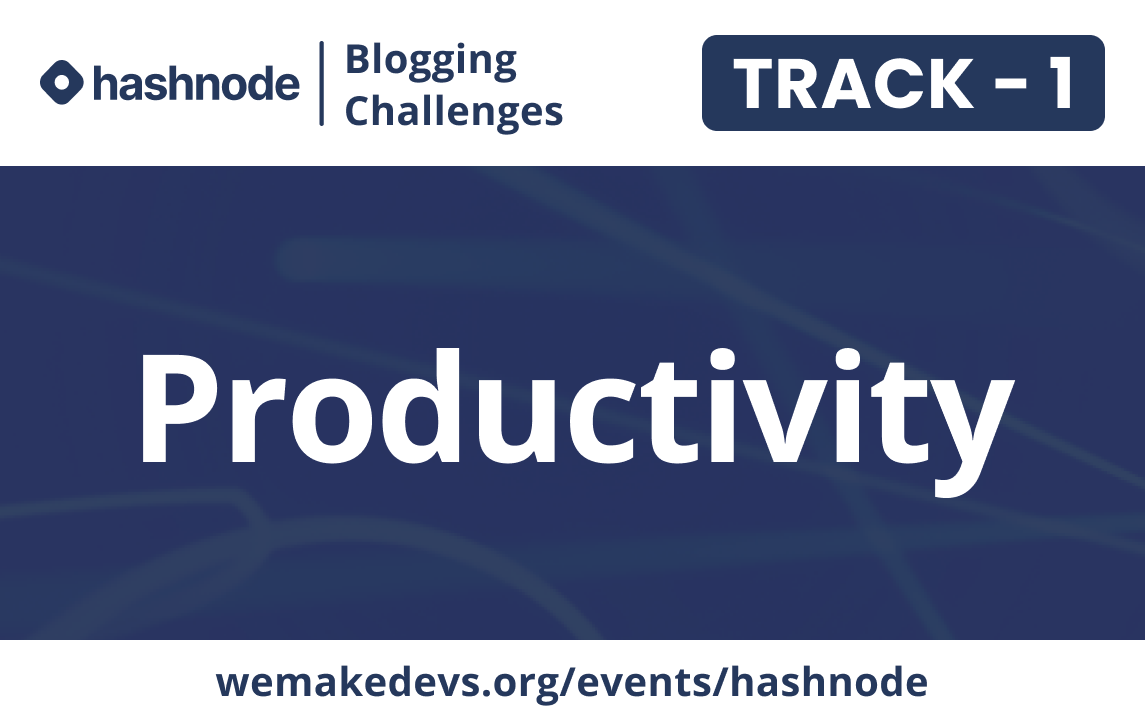
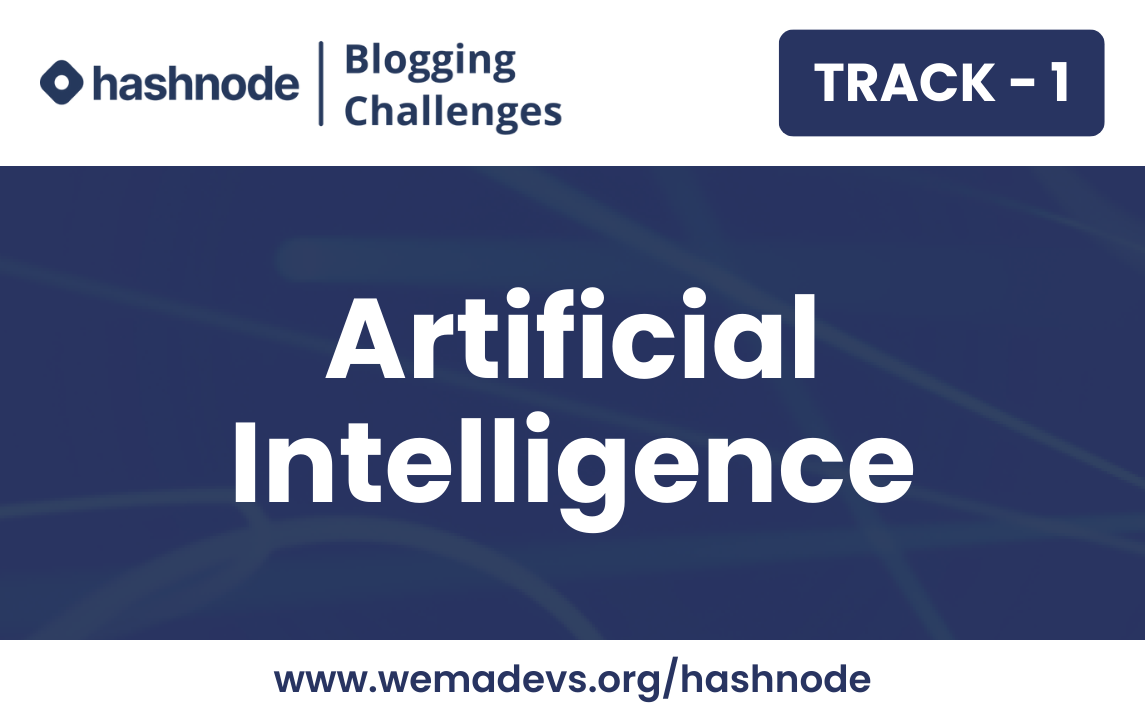
Update hashnode page with september graphics

diff --git a/src/components/PageComp/HashnodePage/Tracks.jsx b/src/components/PageComp/HashnodePage/Tracks.jsx
@@ -1,7 +1,8 @@
-import Special from 'assets/hashnode/Special-Track-2022.png';
+import Special from 'assets/hashnode/Special-Track.png';
 import Track1 from 'assets/hashnode/Track-1.png';
 import Track2 from 'assets/hashnode/Track-2.png';
 import Track3 from 'assets/hashnode/Track-3.png';
+import Track4 from 'assets/hashnode/Track-4.png';
 
 import TrackCard from '@/components/Cards/TrackCard';
 
@@ -26,22 +27,27 @@ export default Tracks;
 const hashnodeData = [
   {
     description:
-      'Write a blog on the topic Productivity, share some of your best practices to stay productive and some hacks which you might use',
+      'Write a blog on Artificial Intelligence, share some of your expereinces in AI, how they have benefitted you and how you got involved in them',
     image: Track1,
   },
   {
     description:
-      'Write a blog on the topic Communities, share some of your expereinces in communites, how they have benefitted you and how you got involved in them',
+      'Write a blog on Development, share about some of your projects, how you got started with them and what you learnt from them',
     image: Track2,
   },
   {
     description:
-      'Write a blog on the topic Soft Skills, share about some soft skills you have developed, and what techniques you used',
+      'Write a blog on DevOps, share some of the best practices you follow, and how they have helped you in your projects',
     image: Track3,
   },
   {
     description:
-      "It is important to look back at things you have acheived to stay motivated to do even more amazing things. Half of 2023 is over, and now it's time to look back at all your acomplishments so far. Write about them and you can win a Mechanical Keyboard.",
+      'Write a blog on Security, share some of the best practices you follow, and how one can get started with them',
+    image: Track4,
+  },
+  {
+    description:
+      "It is all about a free topic, you can write about anything you want, it can be about your expereinces, your journey, your learnings, anything you want to share with the world. Let's see what you have got!",
     image: Special,
   },
 ];
